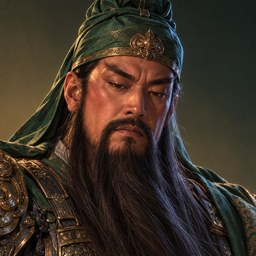
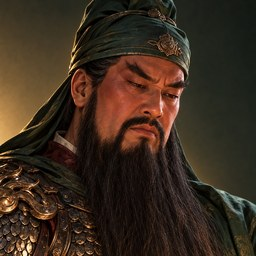
献帝头像取错版本：同一人多版改成按文件名时间戳取最新，不再靠 mtime
文件名后缀是平台的条目 id，头 8 位是 Date.now() 的 36 进制，按它取最大就是最新一版。
原先卡牌按 mtime 取最后一张，献帝那三版同一秒落盘、顺序随机，取到了中间的大叔版；
头像那段更是连排序都没有，glob 谁在后面谁覆盖。改完拉平台 456 条逐一核对，全部一致。

diff --git a/extract/mapgen/stage_battle_assets.py b/extract/mapgen/stage_battle_assets.py
@@ -61,9 +61,19 @@ for f in glob.glob(os.path.join(ROOT, 'assets/clash/px/*.png')):
 print('小兵  %d 张（新）' % n)
 
 # 武将卡牌立绘，给情报面板当底。1024×1536 一张 365KB，228 张太重，缩到 192×288 q80（约 30KB）
-n = 0; seen = {}
-for f in sorted(glob.glob(os.path.join(ROOT, 'assets/card/card_*.jpg')), key=os.path.getmtime):
-    oid = os.path.basename(f).split('_')[1]; seen[oid] = f            # 同一人多版取最新
+# 同一人可能生成过好几版。文件名后缀是平台的条目 id，头 8 位是 Date.now() 的 36 进制，
+# 所以**按后缀取最大**就是最新的那一版。原先按 mtime 取，三版同一秒落盘时顺序是随机的，
+# 献帝就这么取到了中间那版大叔（平台上早换成少年了）。按后缀选，456 张和平台逐条对得上。
+def newest(pattern):
+    seen = {}
+    for f in glob.glob(pattern):
+        parts = os.path.basename(f).split('_')
+        oid, suf = parts[1], parts[2].rsplit('.', 1)[0]
+        if oid not in seen or suf > seen[oid][0]: seen[oid] = (suf, f)
+    return {k: v[1] for k, v in seen.items()}
+
+n = 0
+seen = newest(os.path.join(ROOT, 'assets/card/card_*.jpg'))
 for oid, f in seen.items():
     Image.open(f).convert('RGB').resize((192, 288), Image.LANCZOS).save(os.path.join(DST, 'card', oid + '.jpg'), quality=80); n += 1
 print('卡牌  %d 张（缩版）' % n)
@@ -108,8 +118,7 @@ shutil.copy2(os.path.join(ROOT, 'extract/data/city-adjacency.json'), os.path.joi
 rows = list(csv.reader(open(os.path.join(ROOT, 'extract/data/officers.csv'), encoding='utf-8')))
 ids = {r[0] for r in rows}
 n = 0
-for f in glob.glob(os.path.join(ROOT, 'assets/avatar/avatar_*.jpg')):
-    oid = os.path.basename(f).split('_')[1]
+for oid, f in newest(os.path.join(ROOT, 'assets/avatar/avatar_*.jpg')).items():
     if oid in ids:
         im = Image.open(f).convert('RGB')
         if max(im.size) > 256: im = im.resize((256, 256), Image.LANCZOS)
